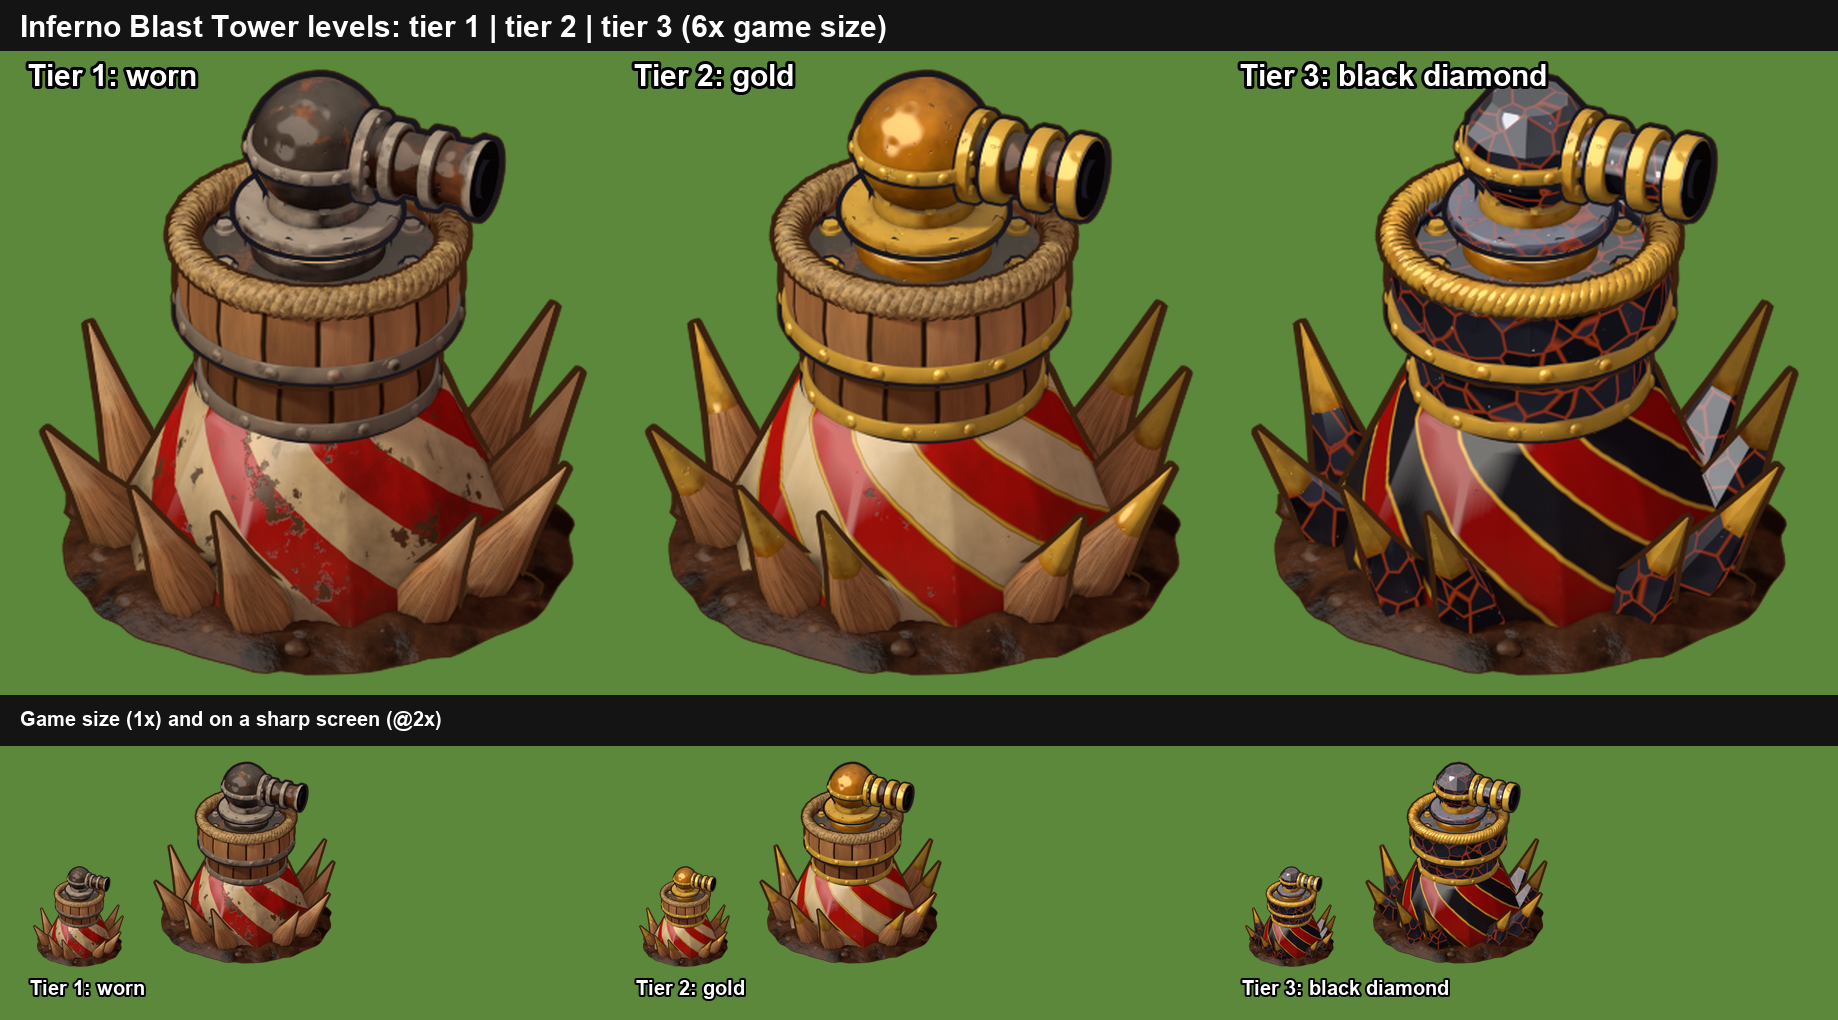
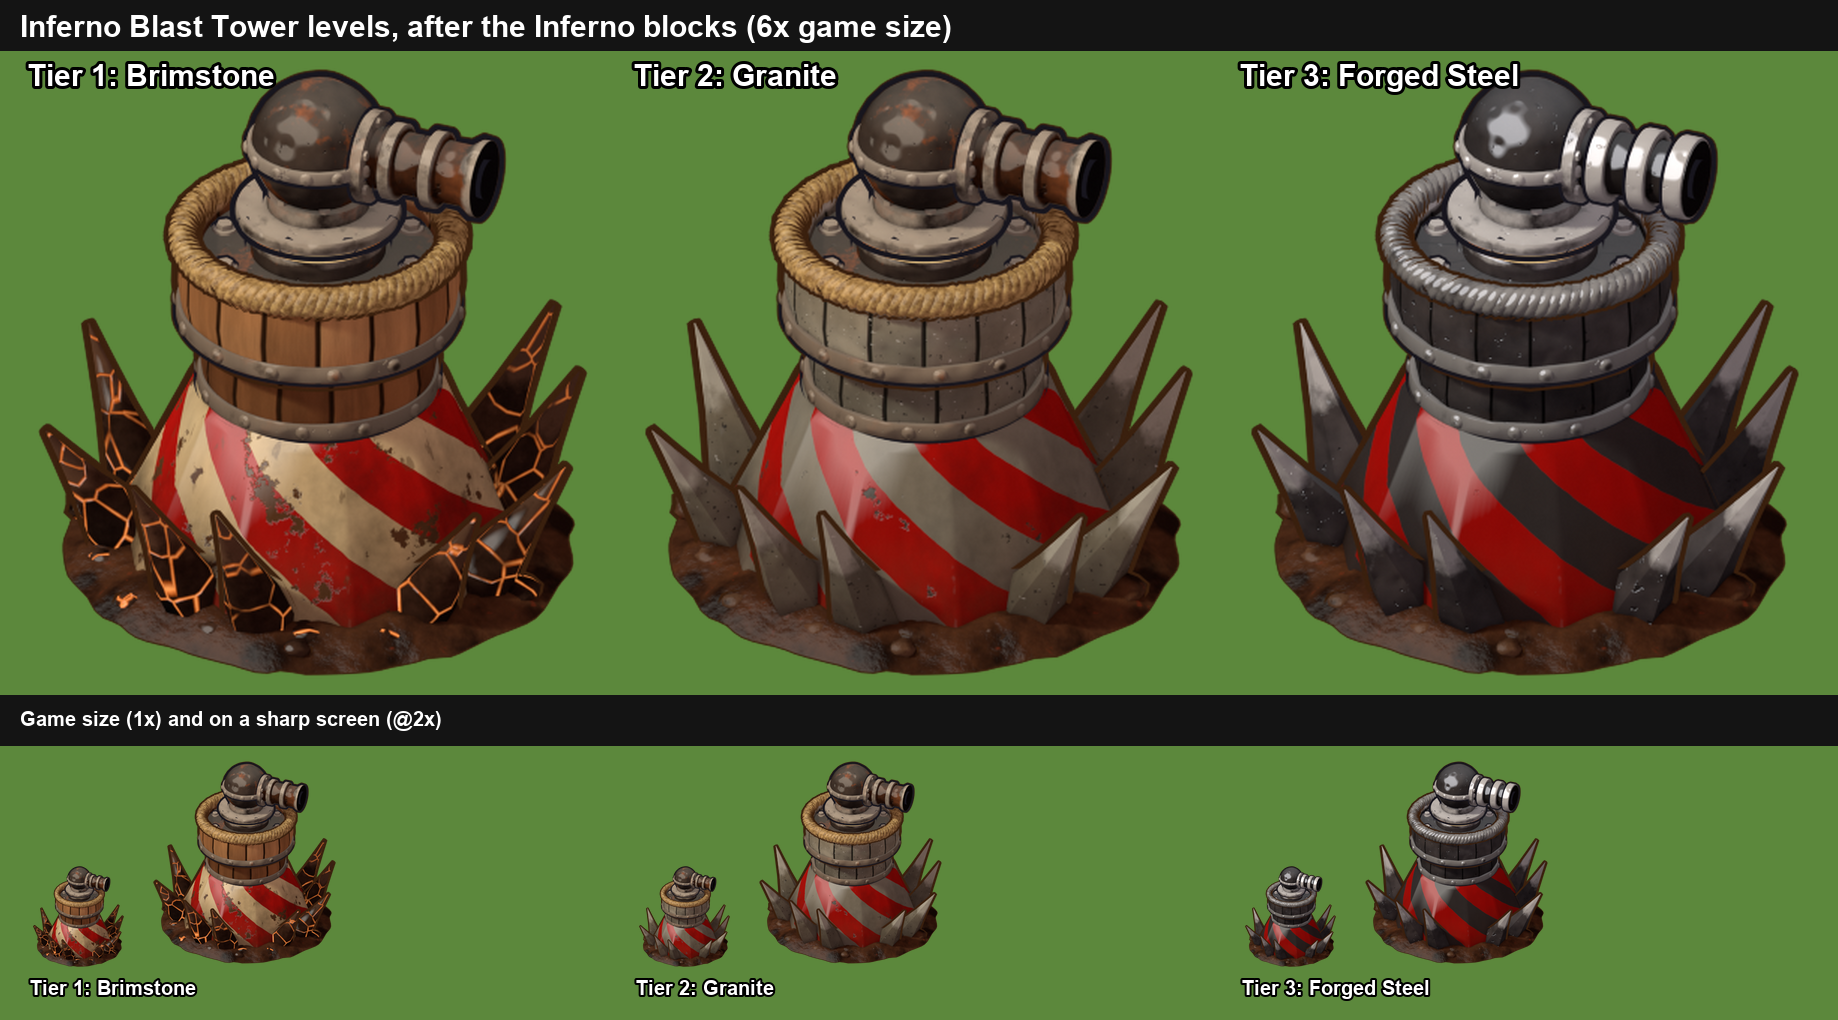
Blast Tower tiers after the Inferno blocks: Brimstone, Granite, Forged Steel (replaces gold / black diamond)
The owner rejected the overworld gold / black diamond tiers for the Inferno: Inferno towers follow the Inferno's own
blocks, which go Brimstone -> Granite -> Forged Steel (english.json infernoblock_desc; art buildings/iwalls/top.1-3.v2.png).

- worn3d: mat_brimstone (charred crust, glowing cracks, hotter low down), mat_granite (flecked grey-tan stone, optional
  cut-block seams), mat_forged (dark gunmetal); mat_iron takes optional plate seams.
- inferno3d: look 1 = the approved worn tower with brimstone stakes and rubble; look 2 = granite drum, neck and stakes,
  red/granite stripes, dark iron; look 3 = forged steel plating, head, coil and spikes, red/steel stripes. No gold;
  the ball is round again in every look. Clash 0 for looks 1-3.
- tiers-sample.png redone (tiers 1 | 2 | 3 at 6x, plus 1x and @2x).

Claude-Session: https://claude.ai/code/session_01YTHpmywxAea5hyoFbwoMtD

diff --git a/art-samples/inferno-3d/inferno3d.py b/art-samples/inferno-3d/inferno3d.py
@@ -105,17 +105,20 @@ def common():
                                rust_k=0.6),
         iron_hoop=W.mat_iron("iron_hoop", base=(74, 58, 48), dark=(38, 29, 25), edge=(150, 128, 108), rust_k=0.85),
         iron_sooty=W.mat_iron("iron_sooty", rust_k=0.6, soot=0.6),
-        # the upper levels' looks (see blast_roles)
-        gold=W.mat_gold("gold"),
-        staves_clean=W.mat_planks("staves_clean", n=16, light=(204, 146, 94), dark=(160, 104, 62), dirt=0.25, cavity=0.45),
-        staves_dark_clean=W.mat_planks("staves_dark_clean", n=14, light=(160, 102, 60), dark=(112, 68, 38), dirt=0.25,
-                                       cavity=0.45),
-        stripes_gold=W.mat_worn_diag("stripes_gold", (196, 22, 16), (232, 204, 156), trim=(236, 168, 40), chips=0.68,
-                                     dirt=0.45, soot=0.25, streaks=0.18),
-        stripes_black=W.mat_worn_diag("stripes_black", (168, 14, 12), (30, 28, 36), under=(16, 14, 18),
-                                      edge=(110, 110, 130), trim=(236, 168, 40), chips=0.72, dirt=0.35, soot=0.0,
-                                      streaks=0.1),
-        crystal=W.mat_black_crystal("crystal"),
+        # the levels' looks after the Inferno's blocks: Brimstone, Granite, Forged Steel (see blast_roles)
+        brimstone=W.mat_brimstone("brimstone"),
+        granite=W.mat_granite("granite", light=(132, 122, 104), dark=(84, 76, 64), edge=(196, 186, 168)),
+        granite_blocks=W.mat_granite("granite_blocks", seams=16),
+        granite_blocks_dark=W.mat_granite("granite_blocks_dark", seams=14, light=(138, 128, 112), dark=(86, 78, 66)),
+        stripes_granite=W.mat_worn_diag("stripes_granite", (180, 20, 14), (138, 128, 112), under=(70, 64, 56),
+                                        edge=(220, 210, 192), chips=0.66, dirt=0.55, soot=0.35, streaks=0.22),
+        forged=W.mat_forged("forged"),
+        forged_dark=W.mat_forged("forged_dark", base=(70, 64, 64), dark=(34, 31, 33), edge=(168, 162, 158), edge_k=0.55,
+                                 spec=0.4),
+        forged_plates=W.mat_forged("forged_plates", seams=16),
+        forged_plates_dark=W.mat_forged("forged_plates_dark", seams=14, base=(70, 64, 64), dark=(34, 31, 33)),
+        stripes_forged=W.mat_worn_diag("stripes_forged", (172, 16, 12), (56, 50, 50), under=(28, 26, 26),
+                                       edge=(168, 160, 156), chips=0.72, dirt=0.3, soot=0.15, streaks=0.12),
     )
 
 
@@ -160,23 +163,27 @@ def strap(name, M, LN, parent, r, z0, z1, n_rivets, rivet_r=0.034, phase=0.0, ma
 
 
 def blast_roles(M):
-    """The Blast Tower's material key for each role, by LOOK (the owner's tier rule from the wall blocks: 1 worn, 2 more
-    gold like the Gold Blocks, 3 black diamond with gold trim like the Black Diamond Blocks)."""
+    """The Blast Tower's material key for each role, by LOOK, after the Inferno's blocks (the owner's rule: a tower's
+    levels follow its world's wall blocks; in the Inferno Brimstone, Granite, Forged Steel): 1 the approved worn tower
+    with brimstone stakes and rubble, 2 granite (cut stone drum, neck and stakes, red and granite stripes, dark iron),
+    3 forged steel (dark steel plating, head and spikes, red and steel stripes)."""
     if LOOK == 2:
-        return dict(skirt="stripes_gold", stake="stake", tip="gold", staves="staves_clean", staves_dark="staves_dark_clean",
-                    hoop="gold", plate="iron_dirty", rope="rope", bolt="gold", collar="gold", cap="gold", ball="gold",
-                    trim="gold", barrel="iron_w", band="gold")
+        return dict(skirt="stripes_granite", stake="granite", tip="granite", staves="granite_blocks",
+                    staves_dark="granite_blocks_dark", hoop="iron_hoop", plate="iron_dirty", rope="rope", bolt="iron_w",
+                    collar="iron_w", cap="iron_w", ball="iron_head", trim="iron_head", barrel="iron_sooty", band=None,
+                    clod="dirt")
     if LOOK == 3:
-        return dict(skirt="stripes_black", stake="crystal", tip="gold", staves="crystal", staves_dark="crystal",
-                    hoop="gold", plate="crystal", rope="gold", bolt="gold", collar="gold", cap="crystal", ball="crystal",
-                    trim="gold", barrel="crystal", band="gold")
-    return dict(skirt="stripes_w", stake="stake", tip="stake", staves="staves", staves_dark="staves_dark", hoop="iron_hoop",
-                plate="iron_dirty", rope="rope", bolt="iron_w", collar="iron_w", cap="iron_w", ball="iron_head",
-                trim="iron_head", barrel="iron_sooty", band=None)
+        return dict(skirt="stripes_forged", stake="forged", tip="forged", staves="forged_plates",
+                    staves_dark="forged_plates_dark", hoop="forged_dark", plate="forged_plates_dark",
+                    rope="forged_dark", bolt="forged", collar="forged", cap="forged", ball="forged_dark", trim="forged",
+                    barrel="forged_dark", band="forged", clod="dirt")
+    return dict(skirt="stripes_w", stake="brimstone", tip="brimstone", staves="staves", staves_dark="staves_dark",
+                hoop="iron_hoop", plate="iron_dirty", rope="rope", bolt="iron_w", collar="iron_w", cap="iron_w",
+                ball="iron_head", trim="iron_head", barrel="iron_sooty", band=None, clod="brimstone")
 
 
 def barrel_bands(tur, M, LN, y0, y1, r, z, rings, mat, mouth=1.25):
-    """Bands over a ridged barrel's rings and mouth (the upper looks' gold)."""
+    """Bands over a ridged barrel's rings and mouth (the forged steel look's)."""
     L_ = y1 - y0
     segs = [L.band(r, r * 1.25 + 0.012, L_ * f - 0.04, L_ * f + 0.04, bev=0.01) for f in rings]
     segs.append(L.band(r, r * mouth + 0.014, L_ - 0.09, L_ - 0.005, bev=0.01))
@@ -188,7 +195,7 @@ def barrel_bands(tur, M, LN, y0, y1, r, z, rings, mat, mouth=1.25):
 
 def build_blast(M, LN, body):
     R = {k: M[v] if v else None for k, v in blast_roles(M).items()}
-    faceted = LOOK == 3
+    faceted = LOOK > 1        # cut stone and forged steel: flat-sided tub, neck and stakes
     # the scorched rubble round the foot
     mound = W.lathe("mound", [[(1.14, 0.0), (1.04, 0.05), (0.92, 0.1), (0.8, 0.1), (0.66, 0.06)]], [M["dirt"]], bev=0,
                     parent=body, n=128)
@@ -197,7 +204,7 @@ def build_blast(M, LN, body):
     add_outline(mound, LN["warm"], L.LINE * 0.7)
     cl = bmesh.new()
     W.clods(cl, [bear(360 * i / 22 + 9 * (i % 3), 0.86 + 0.2 * ((i * 0.37) % 1.0), 0.05) for i in range(22)], r=0.075)
-    add_outline(W.obj("clods", cl, [M["dirt"]], parent=body, sharp=60), LN["warm"], L.LINE * 0.6)
+    add_outline(W.obj("clods", cl, [R["clod"]], parent=body, sharp=60), LN["warm"], L.LINE * 0.6)
     # the skirt: a striped canvas cone in folds, worn and scorched toward the ground
     sk = W.lathe("skirt", [[(0.88, 0.0), (0.87, 0.05), (0.58, 0.8), (0.54, 0.84)]], [R["skirt"]], bev=0, parent=body,
                  sharp=50, n=160)
@@ -251,8 +258,8 @@ def build_blast(M, LN, body):
     tur = L.empty("TURRET", loc=(0, 0, top + 0.004))
     RB, HZ = 0.3, 0.3
     bm = bmesh.new()
-    Q.ball(bm, (0, 0, HZ), RB, segs=10 if faceted else 32)
-    ball = W.obj("ball", bm, [R["ball"]], parent=tur, smooth=not faceted)
+    Q.ball(bm, (0, 0, HZ), RB, segs=32)
+    ball = W.obj("ball", bm, [R["ball"]], parent=tur)
     W.wobble(ball, 0.008, 6.0, 4.0, radial=False)
     W.finish(ball)
     add_outline(ball, LN["cool"])
@@ -273,7 +280,7 @@ def build_blast(M, LN, body):
     bar = ridged_barrel("barrel", tur, M, RB * 0.5, RB + 0.5, 0.14, HZ, (0.35, 0.65), mat=blast_roles(M)["barrel"])
     W.finish(bar)
     add_outline(bar, LN["cool"])
-    if LOOK > 1:
+    if blast_roles(M)["band"]:
         barrel_bands(tur, M, LN, RB * 0.5, RB + 0.5, 0.14, HZ, (0.35, 0.65), blast_roles(M)["band"])
     bm = bmesh.new()      # the flange where the barrel leaves the ball, bolted
     m = Matrix.Translation((0, RB * 0.86, HZ)) @ Matrix.Rotation(-math.pi / 2, 4, 'X')

diff --git a/art-samples/tower-3d/worn3d.py b/art-samples/tower-3d/worn3d.py
@@ -326,10 +326,16 @@ def mat_worn_diag(name, a, b, n=6, lean=1.6, under=(104, 66, 40), edge=(232, 210
 
 
 def mat_iron(name, base=(86, 70, 60), dark=(42, 33, 29), rust=(160, 82, 34), edge=(184, 164, 144), rust_k=0.8,
-             soot=0.0, dents=1.0, dirt=0.3, spec=0.12, spec_col=(1.0, 0.86, 0.7, 1), edge_k=0.8):
-    """Old iron: dark brown-grey, hammered (soft dents), rust patches (more in crevices), bright worn edges."""
+             soot=0.0, dents=1.0, dirt=0.3, spec=0.12, spec_col=(1.0, 0.86, 0.7, 1), edge_k=0.8, seams=0):
+    """Old iron: dark brown-grey, hammered (soft dents), rust patches (more in crevices), bright worn edges. seams: that
+    many plates round Z, each its own shade, dark joins between (plating on a drum)."""
     p = L.Paint(name)
     col = p.ramp(p.noise(2.5, 4.0, 0.6), [(0.3, srgb(*dark)), (0.7, srgb(*base))])
+    if seams:
+        idx, f, _ = _stave(p, seams, wob=0.0)
+        col = p.mix(col, p.ramp(_white(p, idx), [(0.0, _grey(0.8)), (1.0, _grey(1.12))]), 1.0, 'MULTIPLY')
+        d = p.math("MINIMUM", f, p.math("SUBTRACT", 1.0, f))
+        col = p.mix(col, srgb(*[int(c * 0.35) for c in dark]), p.ramp(d, [(0.02, WHITE), (0.045, BLACK)]))
     convex, concave = _attr(p)
     rn = p.math("ADD", p.noise(4.0, 8.0, 0.66), p.math("MULTIPLY", concave, 0.3))
     rm = p.ramp(rn, [(0.54, BLACK), (0.6, _grey(rust_k))])
@@ -437,3 +443,67 @@ def mat_black_crystal(name, scale=6.0, glow=(255, 92, 20), glow_k=0.3, sparkle=1
     shade = [(0.0, (0.36, 0.36, 0.42, 1)), (0.2, (0.5, 0.5, 0.58, 1)), (0.5, (0.78, 0.78, 0.84, 1)), (1.0, (0.95, 0.95, 1.0, 1))]
     return p.finish(col, spec=0.7, spec_rough=0.12, spec_col=(0.92, 0.95, 1.0, 1), metal=True, bump=(h, 0.9), shade=shade,
                     emit=emit, edge_dark=0.4, sheen=0.12, glint=0.3)
+
+
+# The Inferno's blocks go Brimstone -> Granite -> Forged Steel (english.json infernoblock_desc); their colours are from
+# buildings/iwalls/top.1-3.v2.png: brimstone a black-brown crust (18-70) cracked over orange fire (247,130,63); granite a
+# warm grey-tan (81,74,61 to 158,146,128); forged steel a warm dark gunmetal (59,50,49 to 125,110,108), white glints.
+FORGED = dict(base=(92, 84, 84), dark=(44, 40, 42), rust=(96, 70, 54), edge=(214, 206, 202), spec_col=(0.95, 0.95, 1.0, 1),
+              rust_k=0.08, dirt=0.1, spec=0.55, dents=0.5, edge_k=0.75)
+
+
+def mat_forged(name, seams=0, **kw):
+    """Forged steel: dark warm gunmetal, hammered, bright-edged, a cool shine."""
+    return mat_iron(name, seams=seams, **{**FORGED, **kw})
+
+
+def mat_brimstone(name, scale=5.0, crust=((18, 15, 14), (74, 46, 32)), fire=(255, 118, 30), hot=(255, 196, 120),
+                  glow_k=1.0, low=0.4):
+    """Brimstone: a charred black-brown crust in lumps, cracked open over glowing fire (hotter toward the ground,
+    like the Inferno's first block)."""
+    p = L.Paint(name)
+    v = p.N.new("ShaderNodeTexVoronoi")
+    v.inputs["Scale"].default_value = scale
+    p.link(p.tc.outputs["Object"], v.inputs["Vector"])
+    e = p.N.new("ShaderNodeTexVoronoi")
+    e.feature = 'DISTANCE_TO_EDGE'
+    e.inputs["Scale"].default_value = scale
+    p.link(p.tc.outputs["Object"], e.inputs["Vector"])
+    col = p.ramp(_bw(p, v.outputs["Color"]), [(0.0, srgb(*crust[0])), (1.0, srgb(*crust[1]))])
+    col = p.mix(col, p.ramp(p.noise(14.0, 5.0, 0.6), [(0.35, _grey(0.6)), (0.65, _grey(1.15))]), 1.0, 'MULTIPLY')
+    col = weather(p, col, edge=(120, 84, 62), edge_k=0.45, cavity=0.5, dirt=0.0, streaks=0.0, vary=0.1)
+    crack = p.math("ADD", e.outputs["Distance"], p.math("MULTIPLY", p.noise(9.0, 3.0), 0.04))
+    seam = _bw(p, p.ramp(crack, [(0.018, WHITE), (0.06, BLACK)]))
+    seam = p.math("MULTIPLY", seam, _bw(p, p.ramp(p.noise(3.0, 3.0, 0.6), [(0.32, BLACK), (0.48, WHITE)])))
+    geo = p.N.new("ShaderNodeNewGeometry")
+    gz = p.N.new("ShaderNodeSeparateXYZ")
+    p.link(geo.outputs["Position"], gz.inputs[0])
+    lowk = p.math("ADD", 0.35, p.math("MULTIPLY", _bw(p, p.ramp(gz.outputs[2], [(0.0, WHITE), (low, BLACK)])), 0.75))
+    fc = p.ramp(crack, [(0.0, srgb(*hot)), (0.05, srgb(*fire))])
+    emit = p.mix(BLACK, fc, p.math("MULTIPLY", p.math("MULTIPLY", seam, lowk), glow_k))
+    col = p.mix(col, srgb(*fire), p.math("MULTIPLY", seam, 0.75))
+    h = p.math("ADD", p.math("MULTIPLY", v.outputs["Distance"], 1.5), p.math("MULTIPLY", seam, -1.0))
+    return p.finish(col, spec=0.15, spec_rough=0.5, bump=(h, 0.8), shade=L.WARM_SHADE, emit=emit, edge_dark=0.3, sheen=0.0)
+
+
+def mat_granite(name, seams=0, light=(166, 154, 134), dark=(104, 96, 82), fleck_d=(40, 36, 34), fleck_l=(232, 226, 214),
+                edge=(214, 204, 186), dirt=0.35, soot=0.25):
+    """Granite: warm grey-tan stone with dark and pale flecks, chunky chisel shading, chipped pale edges, sooty
+    crevices. seams: that many cut blocks round Z with mortar joins between (a drum built of stone)."""
+    p = L.Paint(name)
+    col = p.ramp(p.noise(2.0, 4.0, 0.55), [(0.3, srgb(*dark)), (0.7, srgb(*light))])
+    if seams:
+        idx, f, sep = _stave(p, seams, wob=0.0)
+        col = p.mix(col, p.ramp(_white(p, idx), [(0.0, _grey(0.85)), (1.0, _grey(1.1))]), 1.0, 'MULTIPLY')
+        d = p.math("MINIMUM", f, p.math("SUBTRACT", 1.0, f))
+        joint = p.ramp(d, [(0.03, WHITE), (0.06, BLACK)])
+        col = p.mix(col, srgb(*[int(c * 0.4) for c in dark]), joint)
+    col = p.mix(col, srgb(*fleck_d), p.ramp(p.noise(40.0, 2.0, 0.5), [(0.66, BLACK), (0.7, _grey(0.85))]))
+    col = p.mix(col, srgb(*fleck_l), p.ramp(p.noise(34.0, 2.0, 0.5, coord="Generated"), [(0.7, BLACK), (0.74, _grey(0.7))]))
+    chisel = _voronoi(p, 7.0)
+    col = p.mix(col, p.ramp(chisel, [(0.05, _grey(0.86)), (0.5, _grey(1.06))]), 1.0, 'MULTIPLY')
+    col = weather(p, col, edge=edge, edge_k=0.7, cavity=0.65, dirt=dirt, soot=soot, streaks=0.2)
+    h = p.math("MULTIPLY", chisel, 1.4)
+    if seams:
+        h = p.math("ADD", h, p.math("MULTIPLY", _bw(p, joint), -1.5))
+    return p.finish(col, spec=0.1, spec_rough=0.6, bump=(h, 0.7), shade=L.WARM_SHADE)

diff --git a/art-samples/inferno-3d/tiersample.py b/art-samples/inferno-3d/tiersample.py
@@ -1,5 +1,5 @@
-"""tiersample.py : the Blast Tower's three level looks side by side for the owner (buildings-3d-4, 29 Oct 2026): tier 1 (worn) |
-tier 2 (gold) | tier 3 (black diamond with gold trim), large and at game size, from the full renders render/t1/full-hHH.png,
+"""tiersample.py : the Blast Tower's three level looks side by side for the owner (buildings-3d-4, 29 Oct 2026), after the
+Inferno's blocks: tier 1 (Brimstone) | tier 2 (Granite) | tier 3 (Forged Steel), large and at game size, from the full renders render/t1/full-hHH.png,
 render/t1-look2/ and render/t1-look3/ (made with INFERNO_LOOK=2|3).
 
   python tiersample.py [H] [OUT]      -> tiers-sample.png (or OUT)
@@ -18,7 +18,7 @@ def main():
     h = int(sys.argv[1]) if len(sys.argv) > 1 else 30
     out = Path(sys.argv[2]) if len(sys.argv) > 2 else HERE / "tiers-sample.png"
     ims = [Image.open(HERE / "render" / d / f"full-h{h:02d}.png").convert("RGBA") for d in ("t1", "t1-look2", "t1-look3")]
-    labels = ["Tier 1: worn", "Tier 2: gold", "Tier 3: black diamond"]
+    labels = ["Tier 1: Brimstone", "Tier 2: Granite", "Tier 3: Forged Steel"]
     boxes = [im.getbbox() for im in ims]
     crop = (min(b[0] for b in boxes) - 12, min(b[1] for b in boxes) - 12, max(b[2] for b in boxes) + 12,
             max(b[3] for b in boxes) + 12)
@@ -32,7 +32,7 @@ def main():
     g = Image.new("RGBA", (3 * w + 4 * gap, lab + hh + lab + small_h + gap), BG)
     d = ImageDraw.Draw(g)
     d.rectangle((0, 0, g.width, lab), fill=dark)
-    d.text((gap, 9), "Inferno Blast Tower levels: tier 1 | tier 2 | tier 3 (6x game size)", fill=white, font=font)
+    d.text((gap, 9), "Inferno Blast Tower levels, after the Inferno blocks (6x game size)", fill=white, font=font)
     for i, (im, label) in enumerate(zip(ims, labels)):
         x = gap + i * (w + gap)
         g.alpha_composite(resize_pm(im.crop(crop), (w, hh)), (x, lab))
